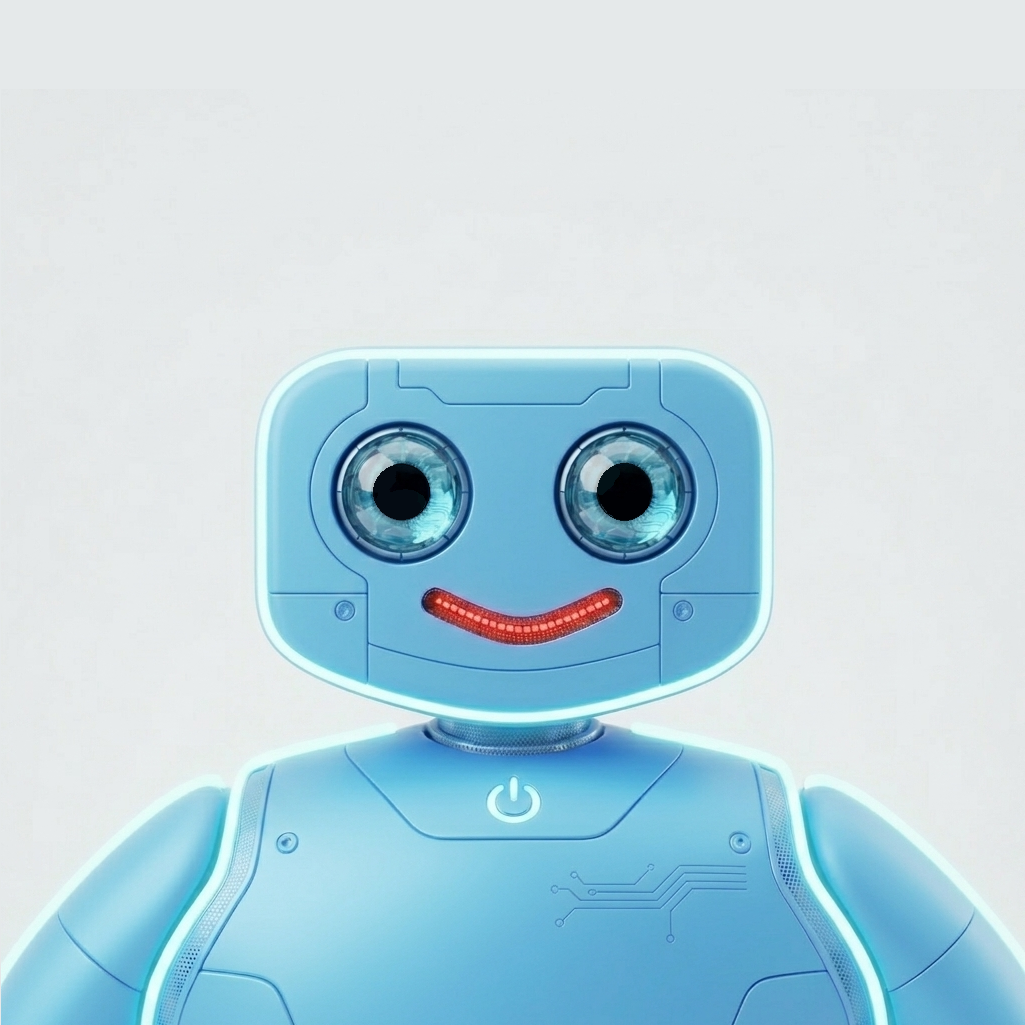
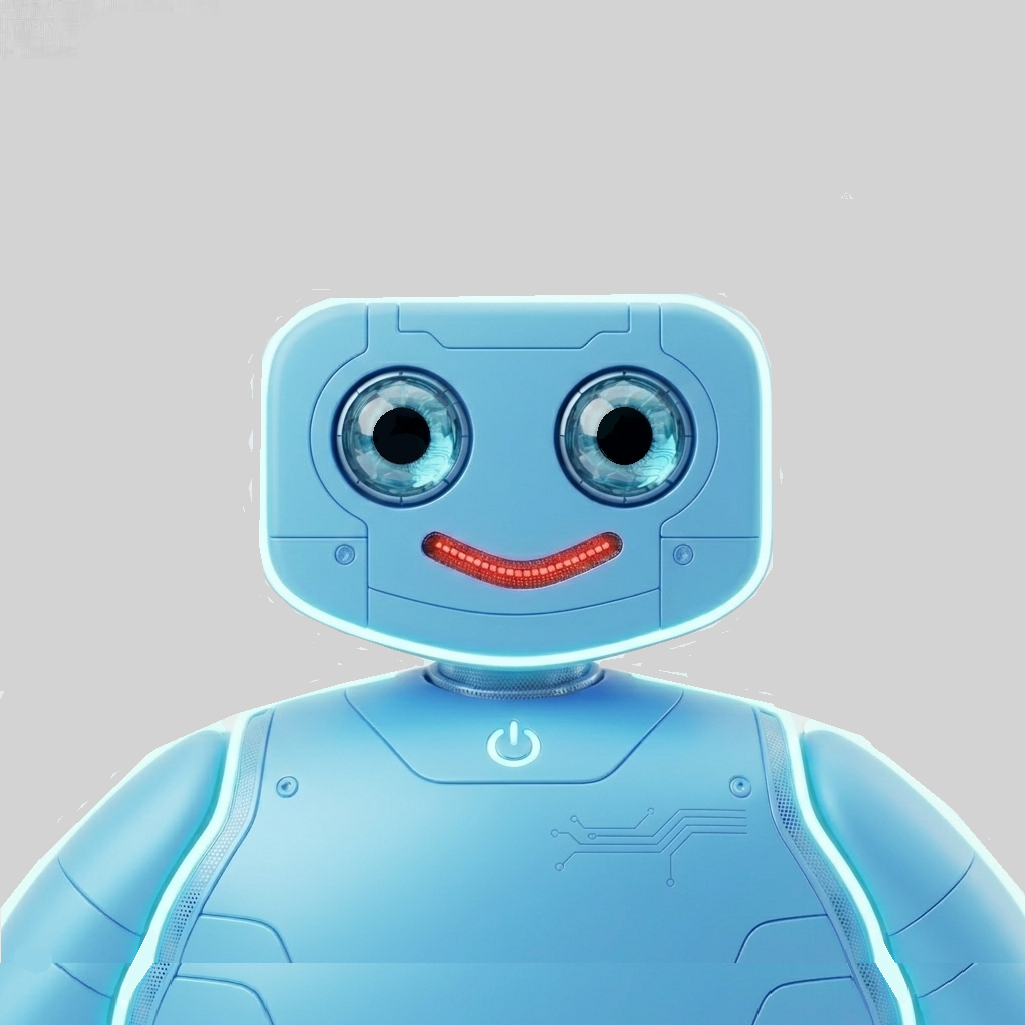
Add files via upload

diff --git a/index.html b/index.html
@@ -3,10 +3,9 @@
 
 <head>
   <meta charset="UTF-8">
-  <title>Cristi T Portfolio</title>
+  <title>Cristian T Portfolio</title>
   <meta name="Cristi T Portfolio" content="Portfolio, HTML, CSS, JavaScript, Google Apps Script" />
-  <meta name="viewport" content="width = device-width, initial-scale = 1.0" />
-  <meta name='viewport' content='maximum-scale=1.0, initial-scale=1.0, width=device-width'>
+   <meta name='viewport' content='maximum-scale=1.0, initial-scale= 1.0, width=device-width'>
   <link rel="stylesheet" href="https://maxcdn.bootstrapcdn.com/bootstrap/3.4.1/css/bootstrap.min.css">
   <link rel="stylesheet" href="https://cdnjs.cloudflare.com/ajax/libs/font-awesome/4.7.0/css/font-awesome.min.css">
   <link rel="stylesheet" href="style.css">
@@ -32,7 +31,7 @@
         <!-- MY PICTURE -->
         <div class="portrait-picture">
         </div>
-        <h1>Cristian T.</h1>
+        <h1>Cristian T</h1>
         <!-- MY ACTIVITIES -->
         <div class="scrambleContainer">
           <h2 class="scrambleText"></h2>
@@ -155,7 +154,7 @@
         </div>
       </div>
 
-    </main><br>
+    </main>
     <!-- PORTFOLIO - STOP -->
 
 
@@ -197,7 +196,12 @@
 
     </div>
     <!-- BOOTSTRAP INITIALIZATION - STOP -->
-
+   <div class="row mt-4">
+                <div class="col text-center opacity-50">
+                  
+                    <small>&copy; 2026 CRISTIAN T PORTFOLIO</small><br>
+                </div>
+            </div>
 </body>
 
 </html>
